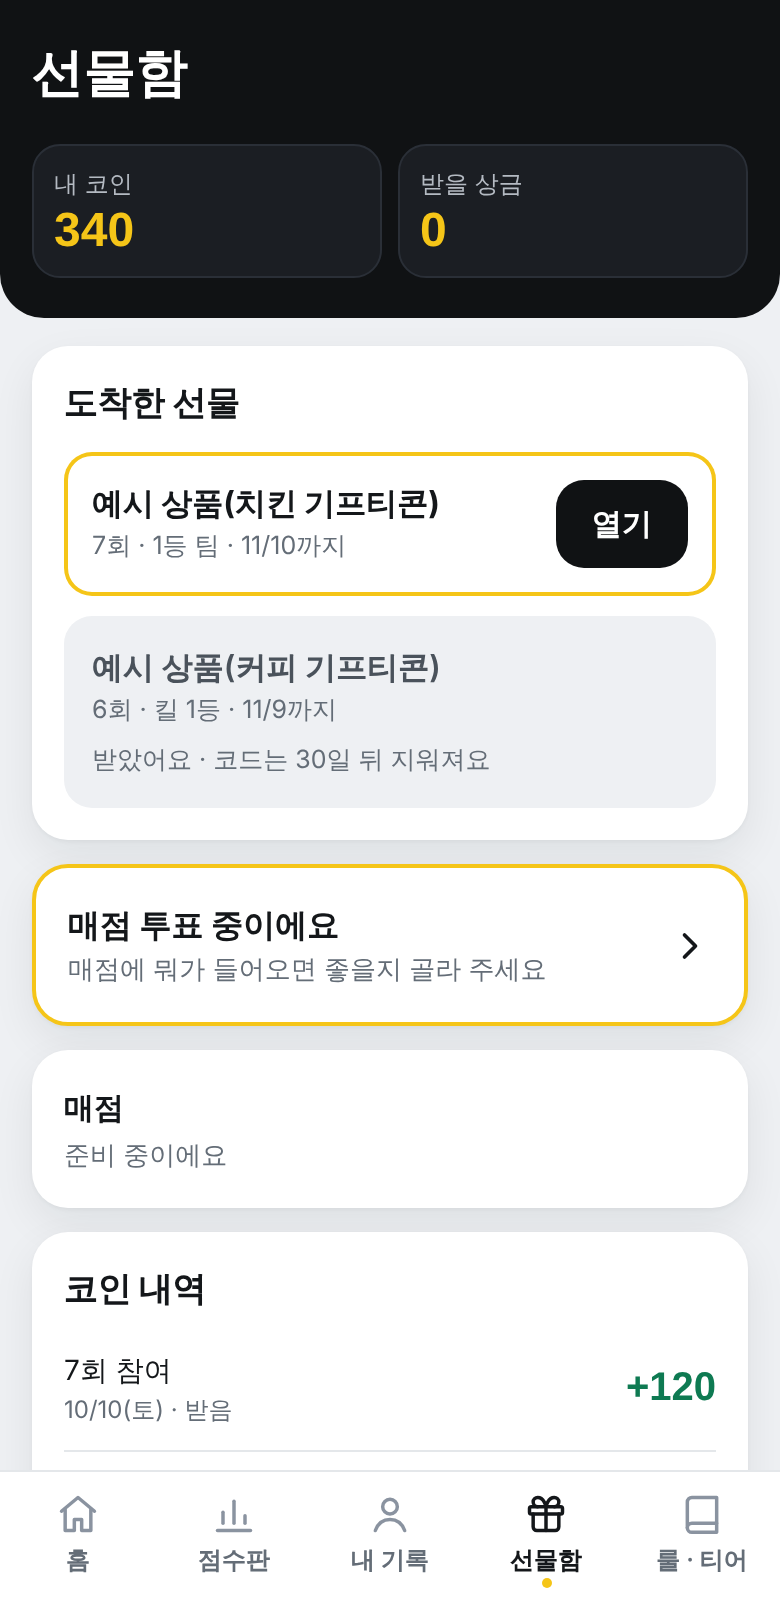
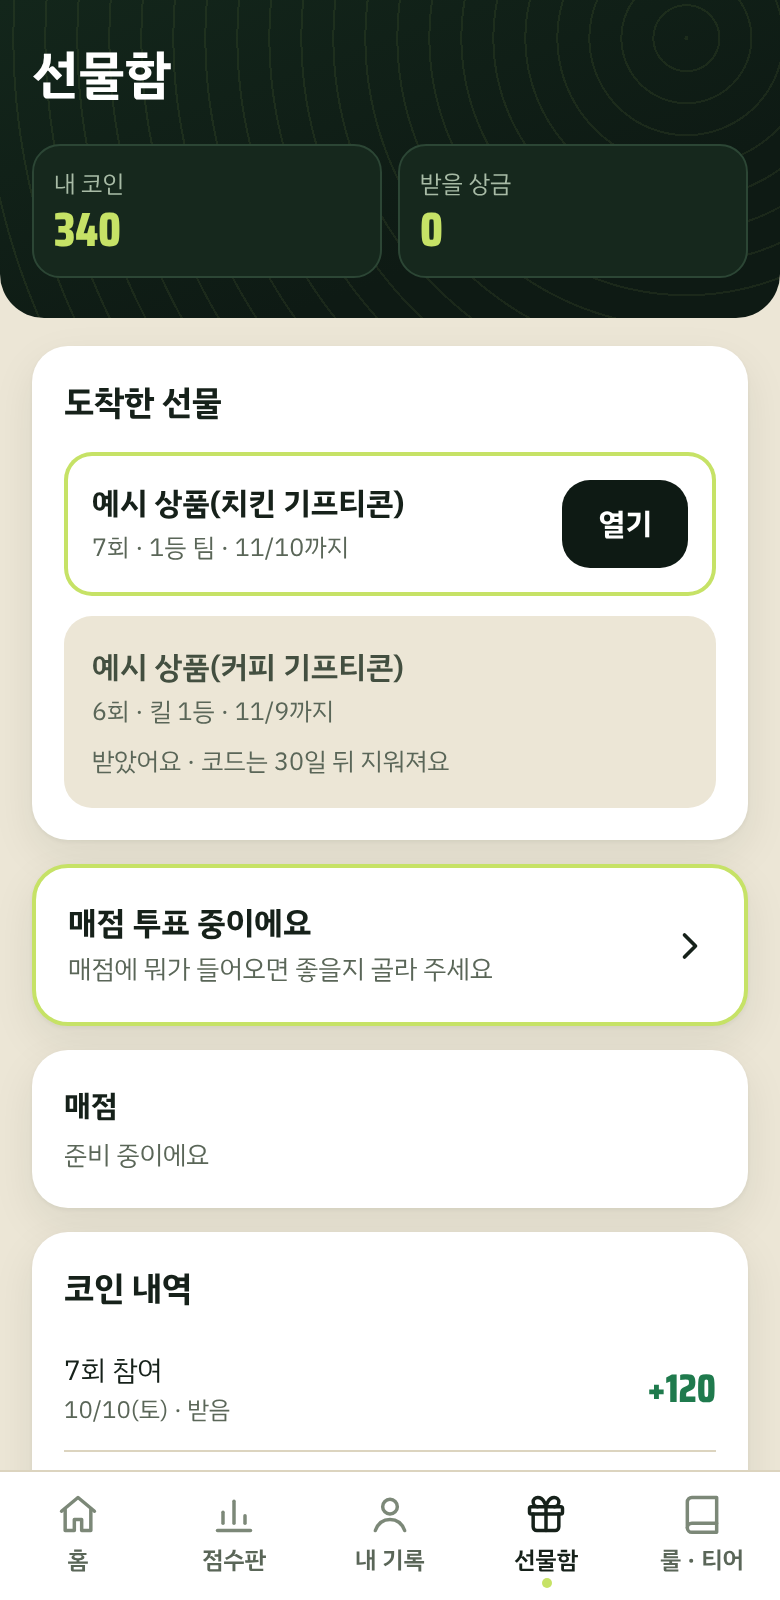
킬내기 앱 — 정글 스킨(10/11 오너 「사녹 느낌」): 숲 띠 + 등고선 무늬 · 라임 강조 · 모래 바탕 · 로고와 회차 제목 스텐실 · 아이콘 숲 바탕
Claude-Session: https://claude.ai/code/session_01VZpurRErTSq9Jq5fnBM9T2

diff --git a/killnaegi-app.html b/killnaegi-app.html
@@ -7,7 +7,7 @@
 <meta name="description" content="GmI 킬내기 신청 · 점수판 · 내 기록 · 선물함 · 룰 · 티어를 한곳에서 봐요">
 <meta property="og:title" content="GmI 킬내기">
 <meta property="og:description" content="신청 · 점수판 · 내 기록 · 선물함 · 룰 · 티어를 한곳에서 봐요">
-<meta name="theme-color" content="#101214">
+<meta name="theme-color" content="#0E1A14">
 <meta name="mobile-web-app-capable" content="yes">
 <meta name="apple-mobile-web-app-capable" content="yes">
 <meta name="apple-mobile-web-app-title" content="킬내기">
@@ -36,16 +36,19 @@
 </script>
 <link rel="preconnect" href="https://fonts.googleapis.com">
 <link rel="preconnect" href="https://fonts.gstatic.com" crossorigin>
-<link href="https://fonts.googleapis.com/css2?family=IBM+Plex+Sans+KR:wght@400;500;600;700&family=Saira+Condensed:wght@700;800&display=swap" rel="stylesheet">
+<link href="https://fonts.googleapis.com/css2?family=Big+Shoulders+Stencil+Display:wght@800&family=IBM+Plex+Sans+KR:wght@400;500;600;700&family=Saira+Condensed:wght@700;800&display=swap" rel="stylesheet">
 <style>
-/* 킬내기 앱 외형 — 수강생 앱과 같은 「안1 브랜드 띠」(9/30 확정 · 10/11 오너 「이걸로」): 검정 띠 · 골드 숫자 · 연회색 바탕 · 흰 카드 · 탭 골드 점.
- * 루트 G드컵 다크(#0a0a0c) · app/ 카지노(NIGHT OPERATION)와 섞지 않는다. 토큰은 이 :root 하나 */
+/* 킬내기 앱 외형 — 띠 구조는 수강생 앱 「안1 브랜드 띠」와 같고 색만 정글 스킨(10/11 오너 「배틀그라운드 사녹 느낌」):
+ * 짙은 숲 띠 + 등고선 무늬 · 라임 강조 · 모래 바탕 · 흰 카드 · 탭 라임 점. 게임사 로고 · 아이콘 · 지도 이미지는 쓰지 않는다(색과 분위기만).
+ * 수강생 앱(검정 · 골드) · 루트 G드컵 다크(#0a0a0c) · app/ 카지노(NIGHT OPERATION)와 섞지 않는다. 토큰은 이 :root 하나 */
 :root{
-  --bg:#EEF0F3; --card:#FFFFFF;
-  --band:#101214; --band-cell:#1B1E23; --band-line:#2A2F37; --band-label:#B4BAC2; --gold:#F5C518; --gold-soft:#FFF9E0;
-  --ink:#14171A; --body:#4A525B; --mute:#646D77; --line:#E4E7EA; --chip:#E7EAED; --link:#8A6A00;
-  --ok:#0E7A52; --ok-soft:#E3F3EC; --bad:#B3261E; --bad-soft:#FBE9E7; --tab-off:#8A93A0;
-  --shadow:0 1px 2px rgba(20,24,28,.04),0 8px 22px rgba(20,24,28,.07);
+  --bg:#ECE6D6; --card:#FFFFFF;
+  --band:#0E1A14; --band-cell:#16281D; --band-line:#2C4635; --band-label:#A8BBA6; --acc:#C6E266; --acc-soft:#E9F2D3; --pick:#F3F8E4;
+  --band-bg:repeating-radial-gradient(circle at 88% 12%,rgba(198,226,102,.07) 0 1px,transparent 1px 16px),linear-gradient(160deg,#13261B 0%,#0E1A14 70%);
+  --ink:#16211A; --body:#434F40; --mute:#5A6658; --line:#DCD4BF; --chip:#E3DCC8; --link:#2D6A3E;
+  --ok:#1F7A4D; --bad:#A8431F; --bad-soft:#F6E3D9; --tab-off:#7C8878;
+  --shadow:0 1px 2px rgba(22,33,26,.05),0 8px 22px rgba(22,33,26,.08);
+  --stencil:'Big Shoulders Stencil Display','Saira Condensed','IBM Plex Sans KR',sans-serif;
   --display:'Saira Condensed','IBM Plex Sans KR',sans-serif;
   --font:'IBM Plex Sans KR',-apple-system,BlinkMacSystemFont,'Apple SD Gothic Neo',sans-serif;
   --r-card:18px; --r-btn:14px; --bar:64px;
@@ -60,14 +63,14 @@ a{color:var(--link);}
 .num{font-family:var(--display);font-weight:800;font-variant-numeric:tabular-nums;letter-spacing:.01em;}
 
 /* 띠 — 화면마다 맨 위 검정 띠 하나 */
-.band{background:var(--band);color:#fff;padding:calc(env(safe-area-inset-top) + 14px) 0 20px;border-radius:0 0 22px 22px;}
+.band{background:var(--band);background-image:var(--band-bg);color:#fff;padding:calc(env(safe-area-inset-top) + 14px) 0 20px;border-radius:0 0 22px 22px;}
 .b-top{display:flex;align-items:center;justify-content:space-between;gap:10px;min-height:40px;}
-.logo{display:inline-flex;align-items:center;min-height:44px;font-family:var(--display);font-weight:800;font-size:26px;line-height:1;color:#fff;text-decoration:none;}
-.logo span{color:var(--gold);}
+.logo{display:inline-flex;align-items:center;min-height:44px;font-family:var(--stencil);font-weight:800;font-size:26px;line-height:1;color:#fff;text-decoration:none;}
+.logo span{color:var(--acc);margin-left:.3em;font-family:var(--font);font-weight:700;font-size:.92em;}
 .who{display:inline-flex;align-items:center;gap:7px;max-width:58vw;min-height:44px;padding:4px 12px 4px 5px;border-radius:999px;background:var(--band-cell);border:1px solid var(--band-line);
   color:#fff;font-size:13.5px;font-weight:600;text-decoration:none;white-space:nowrap;overflow:hidden;text-overflow:ellipsis;}
 .who.plain{padding-left:12px;}
-.tdot{flex:0 0 auto;display:inline-flex;align-items:center;justify-content:center;width:26px;height:26px;border-radius:50%;background:var(--gold);color:var(--band);
+.tdot{flex:0 0 auto;display:inline-flex;align-items:center;justify-content:center;width:26px;height:26px;border-radius:50%;background:var(--acc);color:var(--band);
   font-family:var(--display);font-weight:800;font-size:15px;line-height:1;}
 .back{display:inline-flex;align-items:center;gap:4px;min-height:44px;padding:0 8px 0 0;color:var(--band-label);font-size:14px;font-weight:600;text-decoration:none;}
 .back svg{width:20px;height:20px;stroke:currentColor;fill:none;stroke-width:2;stroke-linecap:round;stroke-linejoin:round;}
@@ -75,21 +78,21 @@ a{color:var(--link);}
 .b-title{font-size:22px;font-weight:700;line-height:1.3;margin-top:6px;overflow-wrap:anywhere;}
 .b-sub{font-size:13px;color:var(--band-label);margin-top:4px;overflow-wrap:anywhere;}
 .b-hero{display:flex;align-items:flex-end;gap:12px;flex-wrap:wrap;margin-top:2px;}
-.b-big{font-family:var(--display);font-weight:800;font-size:52px;line-height:1;color:var(--gold);}
+.b-big{font-family:var(--stencil);font-weight:800;font-size:52px;line-height:1;color:var(--acc);}
 .b-when{display:flex;align-items:center;gap:8px;padding-bottom:6px;font-size:15px;font-weight:600;}
-.dchip{display:inline-block;background:var(--gold);color:var(--band);font-weight:700;font-size:12.5px;border-radius:999px;padding:2px 9px;line-height:1.5;}
+.dchip{display:inline-block;background:var(--acc);color:var(--band);font-weight:700;font-size:12.5px;border-radius:999px;padding:2px 9px;line-height:1.5;}
 .tag-live{display:inline-block;font-size:12px;font-weight:700;border-radius:999px;padding:2px 9px;background:var(--bad);color:#fff;letter-spacing:.04em;}
 .tag-done{display:inline-block;font-size:12px;font-weight:700;border-radius:999px;padding:2px 9px;background:var(--band-cell);border:1px solid var(--band-line);color:#fff;}
 .cells{display:grid;grid-template-columns:repeat(3,1fr);gap:8px;margin-top:14px;}
 .cells.two{grid-template-columns:repeat(2,1fr);}
 .cell{background:var(--band-cell);border:1px solid var(--band-line);border-radius:14px;padding:10px 10px 9px;min-width:0;}
 .cell small{display:block;font-size:12px;color:var(--band-label);white-space:nowrap;overflow:hidden;text-overflow:ellipsis;}
-.cell b{display:block;font-family:var(--display);font-weight:800;font-size:24px;line-height:1.15;color:var(--gold);white-space:nowrap;overflow:hidden;text-overflow:ellipsis;}
+.cell b{display:block;font-family:var(--display);font-weight:800;font-size:24px;line-height:1.15;color:var(--acc);white-space:nowrap;overflow:hidden;text-overflow:ellipsis;}
 .cell b.txt{font-family:var(--font);font-size:15px;font-weight:700;line-height:1.6;color:#fff;}
-.cta{display:flex;align-items:center;justify-content:center;gap:6px;width:100%;min-height:52px;margin-top:14px;border-radius:var(--r-btn);background:var(--gold);color:var(--band);
+.cta{display:flex;align-items:center;justify-content:center;gap:6px;width:100%;min-height:52px;margin-top:14px;border-radius:var(--r-btn);background:var(--acc);color:var(--band);
   font-weight:700;font-size:16.5px;text-decoration:none;border:0;cursor:pointer;}
 .cta.off{background:var(--band-cell);border:1px solid var(--band-line);color:var(--band-label);}
-.tier-sq{flex:0 0 auto;width:58px;height:58px;border-radius:14px;background:var(--gold);color:var(--band);display:flex;flex-direction:column;align-items:center;justify-content:center;line-height:1;}
+.tier-sq{flex:0 0 auto;width:58px;height:58px;border-radius:14px;background:var(--acc);color:var(--band);display:flex;flex-direction:column;align-items:center;justify-content:center;line-height:1;}
 .tier-sq b{font-family:var(--display);font-weight:800;font-size:28px;}
 .tier-sq small{font-size:11px;font-weight:700;margin-top:2px;}
 .tier-sq.none{background:var(--band-cell);border:1px solid var(--band-line);color:var(--band-label);}
@@ -98,13 +101,13 @@ a{color:var(--link);}
 .b-form{display:flex;gap:8px;margin-top:12px;}
 .b-input{flex:1 1 auto;min-width:0;min-height:48px;border:1px solid var(--band-line);border-radius:var(--r-btn);background:var(--band-cell);color:#fff;padding:0 14px;font-size:16px;}
 .b-input::placeholder{color:var(--band-label);}
-.b-btn{flex:0 0 auto;min-height:48px;padding:0 18px;border:0;border-radius:var(--r-btn);background:var(--gold);color:var(--band);font-weight:700;cursor:pointer;}
+.b-btn{flex:0 0 auto;min-height:48px;padding:0 18px;border:0;border-radius:var(--r-btn);background:var(--acc);color:var(--band);font-weight:700;cursor:pointer;}
 .b-link{display:inline-block;margin-top:6px;padding:0;font-size:13px;color:var(--band-label);background:none;border:0;text-decoration:underline;cursor:pointer;min-height:44px;}
 .b-select{width:100%;min-height:44px;margin-top:12px;border:1px solid var(--band-line);border-radius:var(--r-btn);background:var(--band-cell);color:#fff;padding:0 12px;font-size:15px;}
 
 /* 띠 안 스켈레톤 · 실패 */
-.sk{display:block;border-radius:8px;background:linear-gradient(90deg,#E4E7EA 0%,#F3F4F6 50%,#E4E7EA 100%);background-size:200% 100%;animation:sk 1.4s ease-in-out infinite;}
-.band .sk{background:linear-gradient(90deg,#1B1E23 0%,#262A31 50%,#1B1E23 100%);background-size:200% 100%;}
+.sk{display:block;border-radius:8px;background:linear-gradient(90deg,#E3DCC8 0%,#F2EDE1 50%,#E3DCC8 100%);background-size:200% 100%;animation:sk 1.4s ease-in-out infinite;}
+.band .sk{background:linear-gradient(90deg,#16281D 0%,#203A2A 50%,#16281D 100%);background-size:200% 100%;}
 .sk-t{height:52px;width:48%;margin:14px 0 6px;}
 .sk-c{height:60px;width:100%;margin-top:12px;border-radius:14px;}
 .sk-b{height:52px;width:100%;margin-top:14px;border-radius:var(--r-btn);}
@@ -116,7 +119,7 @@ a{color:var(--link);}
 .band .wait{color:var(--band-label);}
 .fail{display:flex;align-items:center;justify-content:space-between;gap:10px;flex-wrap:wrap;font-size:14px;color:var(--body);padding:8px 0 2px;}
 .band .fail{color:var(--band-label);margin-top:14px;}
-.band .fail a{color:var(--gold);}
+.band .fail a{color:var(--acc);}
 .retry{border:1px solid var(--line);background:#fff;color:var(--ink);font-weight:700;font-size:13.5px;border-radius:999px;padding:0 16px;min-height:44px;cursor:pointer;}
 .band .retry{background:var(--band-cell);border-color:var(--band-line);color:#fff;}
 
@@ -131,7 +134,7 @@ main{padding-top:14px;}
 .list{list-style:none;margin-top:6px;}
 .list li{display:grid;grid-template-columns:30px 1fr auto;align-items:center;gap:10px;padding:10px 8px;border-radius:12px;}
 .list li + li{border-top:1px solid var(--line);border-radius:0;}
-.list li.first{background:var(--gold-soft);border-radius:12px;}
+.list li.first{background:var(--acc-soft);border-radius:12px;}
 .list li.first + li{border-top:0;}
 .list .rk{font-family:var(--display);font-size:22px;font-weight:800;text-align:center;color:var(--mute);line-height:1;}
 .list li.first .rk{color:var(--ink);}
@@ -140,7 +143,7 @@ main{padding-top:14px;}
 .list .val{font-family:var(--display);font-size:24px;font-weight:800;line-height:1;text-align:right;}
 .list .val small{display:block;font-family:var(--font);font-size:11.5px;font-weight:500;color:var(--mute);}
 .minus{color:var(--bad);}
-.banner{display:flex;align-items:center;gap:12px;text-decoration:none;color:var(--ink);border:2px solid var(--gold);}
+.banner{display:flex;align-items:center;gap:12px;text-decoration:none;color:var(--ink);border:2px solid var(--acc);}
 .banner b{display:block;font-size:16px;color:var(--ink);}
 .banner > span > span{display:block;font-size:13px;color:var(--mute);}
 .banner svg{flex:0 0 auto;margin-left:auto;width:22px;height:22px;stroke:var(--ink);fill:none;stroke-width:2;stroke-linecap:round;stroke-linejoin:round;}
@@ -150,7 +153,7 @@ main{padding-top:14px;}
 .rchip{background:var(--chip);border-radius:999px;padding:4px 11px;font-size:12.5px;font-weight:600;color:var(--ink);}
 .rchip.bad{background:var(--bad-soft);color:var(--bad);}
 .team{background:var(--card);border-radius:var(--r-card);box-shadow:var(--shadow);margin-bottom:10px;overflow:hidden;}
-.team.first{box-shadow:var(--shadow),inset 0 0 0 2px var(--gold);}
+.team.first{box-shadow:var(--shadow),inset 0 0 0 2px var(--acc);}
 .team-h{display:grid;grid-template-columns:30px 1fr auto;align-items:center;gap:10px;width:100%;text-align:left;background:none;border:0;padding:14px;cursor:pointer;min-height:64px;}
 .team-h .rk{font-family:var(--display);font-size:24px;font-weight:800;text-align:center;color:var(--mute);line-height:1;}
 .team.first .team-h .rk{color:var(--ink);}
@@ -160,7 +163,7 @@ main{padding-top:14px;}
 .team.first .team-h .total{color:var(--ink);}
 .detail{border-top:1px solid var(--line);padding:10px 14px 14px;}
 .mem{display:flex;align-items:center;gap:8px;padding:5px 0;font-size:14px;}
-.mem .t{flex:0 0 auto;min-width:40px;text-align:center;background:var(--band);color:var(--gold);font-family:var(--display);font-weight:800;font-size:14px;border-radius:999px;padding:1px 8px;}
+.mem .t{flex:0 0 auto;min-width:40px;text-align:center;background:var(--band);color:var(--acc);font-family:var(--display);font-weight:800;font-size:14px;border-radius:999px;padding:1px 8px;}
 .mem .n{flex:1 1 auto;overflow-wrap:anywhere;min-width:0;}
 .mem .p{flex:0 0 auto;font-size:12.5px;color:var(--bad);font-weight:600;}
 .game{display:grid;grid-template-columns:1fr auto;gap:2px 10px;padding:8px 0;border-top:1px dashed var(--line);}
@@ -174,7 +177,7 @@ main{padding-top:14px;}
 
 /* 내 기록 */
 .prog{height:10px;border-radius:999px;background:var(--chip);overflow:hidden;margin:10px 0 8px;}
-.prog i{display:block;height:100%;background:var(--gold);}
+.prog i{display:block;height:100%;background:var(--acc);}
 .kv{display:grid;grid-template-columns:repeat(2,1fr);gap:10px;margin-top:10px;}
 .kv div{background:var(--bg);border-radius:12px;padding:10px 12px;}
 .kv small{display:block;font-size:12px;color:var(--mute);}
@@ -184,7 +187,7 @@ main{padding-top:14px;}
 
 /* 선물함 */
 .gift{border-radius:14px;padding:14px;background:var(--bg);margin-top:10px;}
-.gift.new{background:#fff;box-shadow:inset 0 0 0 2px var(--gold);}
+.gift.new{background:#fff;box-shadow:inset 0 0 0 2px var(--acc);}
 .gift.dim b{color:var(--body);font-weight:600;}
 .gift-h{display:flex;align-items:flex-start;justify-content:space-between;gap:10px;}
 .gift-h b{display:block;font-size:15.5px;overflow-wrap:anywhere;}
@@ -206,9 +209,9 @@ main{padding-top:14px;}
 
 /* 매점 투표 */
 .opt{display:flex;align-items:center;gap:12px;width:100%;min-height:64px;padding:14px;margin-top:10px;border:0;border-radius:var(--r-card);background:#fff;box-shadow:var(--shadow);text-align:left;cursor:pointer;}
-.opt[aria-pressed="true"]{box-shadow:var(--shadow),inset 0 0 0 2px var(--gold);}
+.opt[aria-pressed="true"]{background:var(--pick);box-shadow:var(--shadow),inset 0 0 0 2px var(--acc);}
 .opt .ck{flex:0 0 auto;width:26px;height:26px;border-radius:50%;border:2px solid var(--line);display:flex;align-items:center;justify-content:center;}
-.opt[aria-pressed="true"] .ck{background:var(--gold);border-color:var(--gold);}
+.opt[aria-pressed="true"] .ck{background:var(--acc);border-color:var(--acc);}
 .opt .ck svg{width:15px;height:15px;stroke:var(--band);fill:none;stroke-width:3;stroke-linecap:round;stroke-linejoin:round;opacity:0;}
 .opt[aria-pressed="true"] .ck svg{opacity:1;}
 .opt b{display:block;font-size:16px;}
@@ -220,8 +223,8 @@ main{padding-top:14px;}
 .res-row{margin-top:10px;font-size:14px;}
 .res-row div{display:flex;justify-content:space-between;}
 .res-bar{height:10px;border-radius:999px;background:var(--chip);overflow:hidden;margin-top:4px;}
-.res-bar i{display:block;height:100%;background:var(--gold);}
-.dock{position:fixed;left:0;right:0;bottom:calc(var(--bar) + env(safe-area-inset-bottom));z-index:9;background:linear-gradient(rgba(238,240,243,0),var(--bg) 30%);padding:18px 0 10px;}
+.res-bar i{display:block;height:100%;background:var(--acc);}
+.dock{position:fixed;left:0;right:0;bottom:calc(var(--bar) + env(safe-area-inset-bottom));z-index:9;background:linear-gradient(rgba(236,230,214,0),var(--bg) 30%);padding:18px 0 10px;}
 .dock .btn{width:100%;min-height:52px;font-size:16px;}
 .btn.ok{background:var(--ok);color:#fff;}
 .vote-pad{height:90px;}
@@ -230,7 +233,7 @@ main{padding-top:14px;}
 /* 룰 · 티어 */
 .seg{display:flex;gap:6px;background:var(--chip);border-radius:999px;padding:4px;margin-bottom:12px;}
 .seg a{flex:1 1 0;display:flex;align-items:center;justify-content:center;min-height:44px;border-radius:999px;font-weight:700;font-size:14px;color:var(--body);text-decoration:none;}
-.seg a[aria-current="page"]{background:#fff;color:var(--ink);box-shadow:0 1px 2px rgba(20,24,28,.08);}
+.seg a[aria-current="page"]{background:#fff;color:var(--ink);box-shadow:0 1px 2px rgba(22,33,26,.1);}
 .rule-list{list-style:none;font-size:14.5px;line-height:1.9;margin-top:6px;}
 .rule-list b{color:var(--ink);}
 .rule-list .note{color:var(--mute);}
@@ -255,14 +258,14 @@ details p{font-size:14px;color:var(--body);padding:0 0 12px;}
 .nick.thin{background:transparent;box-shadow:inset 0 0 0 1px var(--mute);color:var(--body);border-style:dashed;}
 .legend{display:flex;flex-wrap:wrap;gap:10px;font-size:12.5px;color:var(--body);margin:8px 0 2px;}
 
-/* 아래 탭바 — 비활성 아이콘 #8A93A0 · 글자는 대비 4.5:1 을 위해 mute · 활성은 ink + 골드 점 */
+/* 아래 탭바 — 비활성 아이콘 tab-off · 글자는 대비 4.5:1 을 위해 mute · 활성은 ink + 라임 점 */
 .tabbar{position:fixed;left:0;right:0;bottom:0;z-index:10;background:#fff;border-top:1px solid var(--line);padding-bottom:env(safe-area-inset-bottom);}
 .tabbar .in{max-width:560px;margin:0 auto;display:grid;grid-template-columns:repeat(5,1fr);}
 .tabbar a{position:relative;display:flex;flex-direction:column;align-items:center;justify-content:center;gap:3px;height:var(--bar);text-decoration:none;color:var(--mute);font-size:12px;font-weight:600;}
 .tabbar a svg{width:22px;height:22px;stroke:var(--tab-off);fill:none;stroke-width:1.9;stroke-linecap:round;stroke-linejoin:round;}
 .tabbar a[aria-current="page"]{color:var(--ink);}
 .tabbar a[aria-current="page"] svg{stroke:var(--ink);}
-.tabbar a[aria-current="page"]::after{content:"";position:absolute;bottom:6px;width:5px;height:5px;border-radius:50%;background:var(--gold);}
+.tabbar a[aria-current="page"]::after{content:"";position:absolute;bottom:6px;width:5px;height:5px;border-radius:50%;background:var(--acc);}
 .ver{text-align:center;font-size:11px;color:var(--mute);padding:6px 0 4px;}
 .oops{position:fixed;left:12px;right:12px;bottom:calc(var(--bar) + env(safe-area-inset-bottom) + 8px);z-index:11;max-width:536px;margin:0 auto;
   display:flex;align-items:center;justify-content:space-between;gap:10px;background:var(--band);color:#fff;border-radius:var(--r-btn);padding:10px 12px;font-size:13.5px;}
